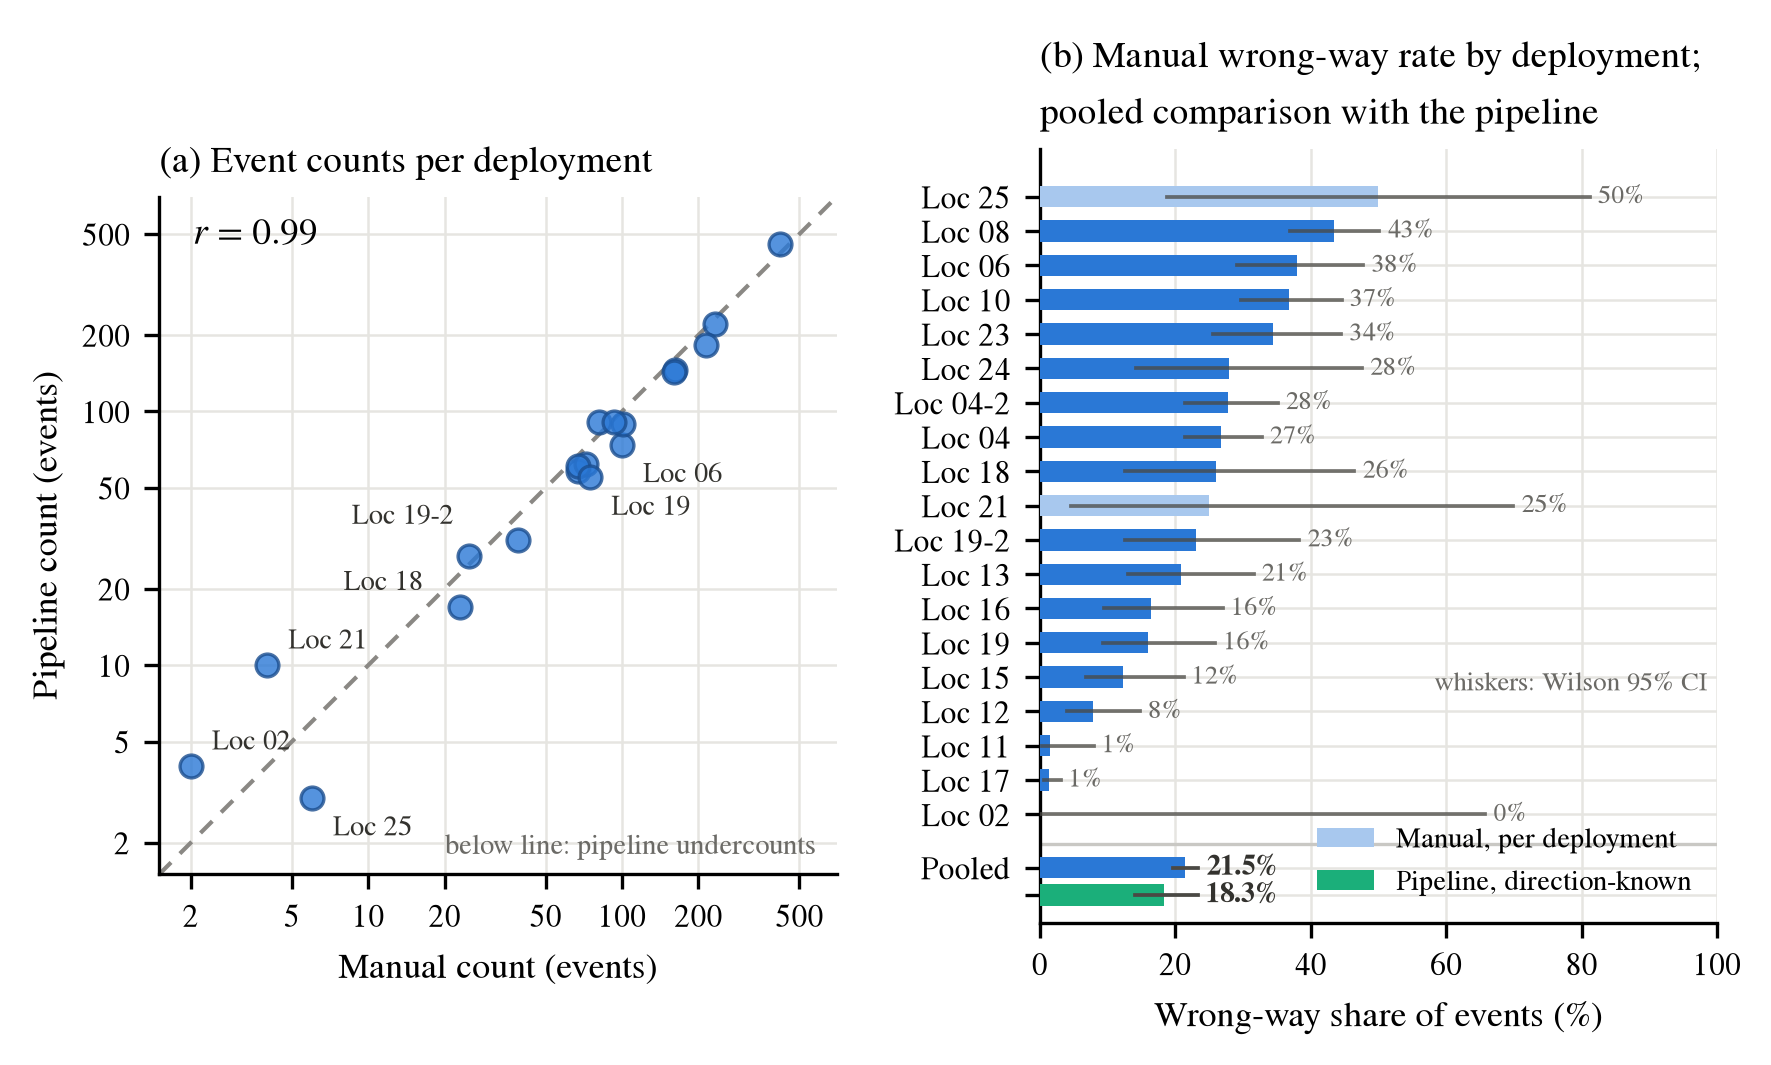
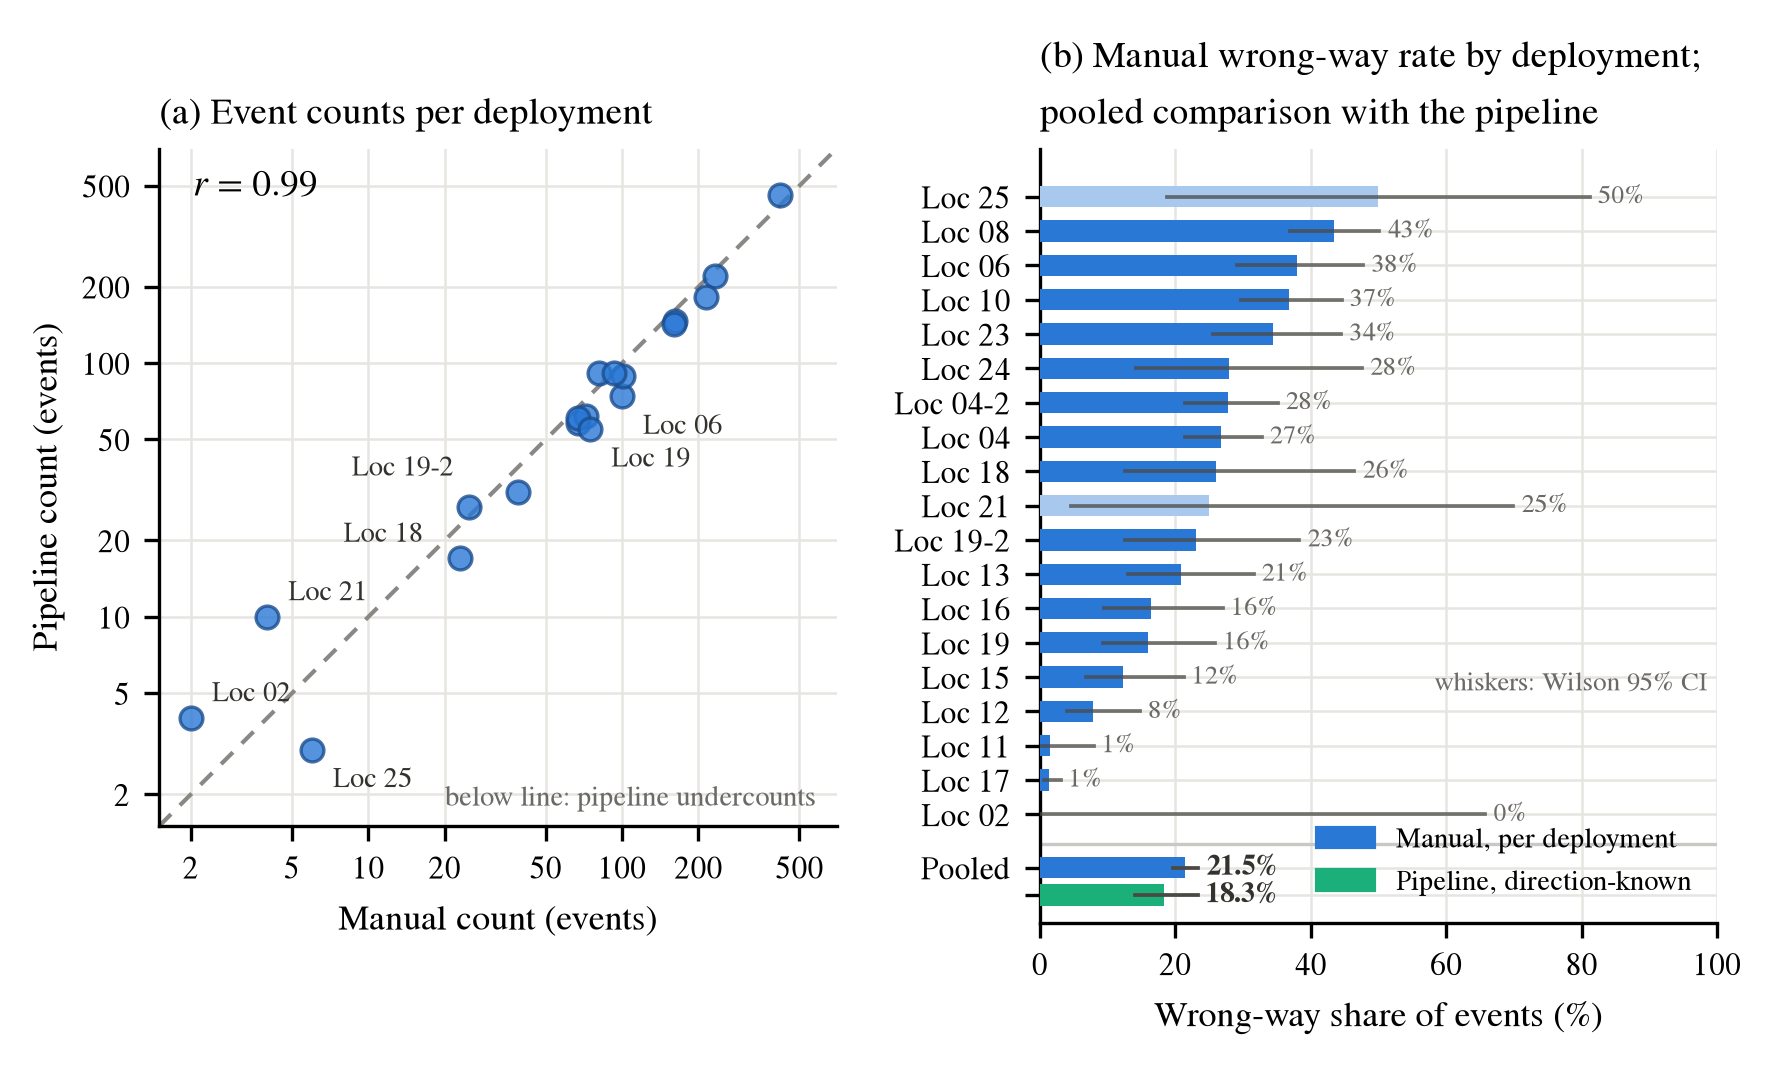
Add pinned robustness checks; fix figure legend swatch, panel alignment, label threshold
robustness_checks.py pins the computations reported in the paper: K-means
ARI and silhouettes (k=2..5), threshold-rule sensitivity (9 cutoff
combinations, zero changes), pipeline facility-share validation (17/19
type agreement; shares r=0.978, MAE 0.050 at n>=10 deployments), and
pairing sensitivity (rho=0.867 at n=14). Figure fixes: explicit legend
handles so the manual swatch is not drawn in the lightened small-n color,
panel (a) anchored to the top edge, and the annotation threshold aligned
with the caption (label deviations beyond -20/+20 percent).

diff --git a/paper/robustness_checks.py b/paper/robustness_checks.py
@@ -1,0 +1,102 @@
+#!/usr/bin/env python3
+"""Robustness checks reported in the paper (Stage 4 and Results).
+
+Pinned computation so every number in the text is reproducible:
+  1. K-means (k=3) vs threshold-rule agreement (ARI) on the manual usage
+     shares, plus silhouette scores for k = 2..5.
+  2. Sensitivity of the 0.6/0.2 threshold rule (dominance cutoff +-0.05,
+     gap cutoff +-0.05: all combinations).
+  3. Pipeline facility-share validation: per-deployment shares vs manual,
+     and type agreement when the classification rules run on the
+     pipeline's own shares.
+  4. Pairing sensitivity: Spearman rho with the second views
+     (Loc_04-2, Loc_19-2) dropped.
+
+Settings are fixed (sklearn KMeans, n_init=50, random_state=0, features =
+the three facility shares) because silhouette values move with the
+implementation; these are the settings behind the numbers in the text.
+"""
+import os
+
+import numpy as np
+import pandas as pd
+from scipy.stats import pearsonr, spearmanr
+from sklearn.cluster import KMeans
+from sklearn.metrics import adjusted_rand_score, silhouette_score
+
+HERE = os.path.dirname(os.path.abspath(__file__))
+MAN = os.path.join(HERE, "..", "data", "manual_counts_new.csv")
+PIPE = os.path.join(HERE, "..", "outputs_new", "all_locations_summary.csv")
+
+SMALL_N = {"02", "21", "25"}  # fewer than 10 manual events
+
+
+def rule_type(sw, bl, rd):
+    shares = sorted((("SW", sw), ("BL", bl), ("RD", rd)),
+                    key=lambda kv: -kv[1])
+    if shares[0][1] >= 0.6 and shares[0][1] - shares[1][1] >= 0.2:
+        return shares[0][0]
+    return "Mixed"
+
+
+def rule_type_custom(sw, bl, rd, dom, gap):
+    shares = sorted((("SW", sw), ("BL", bl), ("RD", rd)),
+                    key=lambda kv: -kv[1])
+    if shares[0][1] >= dom and shares[0][1] - shares[1][1] >= gap:
+        return shares[0][0]
+    return "Mixed"
+
+
+man = pd.read_csv(MAN, dtype={"loc": str}).set_index("loc")
+man["sw"] = (man.fwd_sw + man.ww_sw) / man.total
+man["bl"] = (man.fwd_bl + man.ww_bl) / man.total
+man["rd"] = (man.fwd_rd + man.ww_rd) / man.total
+man["type"] = [rule_type(r.sw, r.bl, r.rd) for r in man.itertuples()]
+
+# --- 1. K-means agreement and silhouettes -------------------------------
+X = man[["sw", "bl", "rd"]].values
+km3 = KMeans(n_clusters=3, n_init=50, random_state=0).fit(X)
+ari = adjusted_rand_score(man["type"], km3.labels_)
+print(f"K-means k=3 vs threshold rules: ARI = {ari:.2f}")
+for k in (2, 3, 4, 5):
+    km = KMeans(n_clusters=k, n_init=50, random_state=0).fit(X)
+    print(f"  silhouette k={k}: {silhouette_score(X, km.labels_):.3f}")
+
+# --- 2. threshold sensitivity -------------------------------------------
+base = man["type"]
+for dom in (0.55, 0.60, 0.65):
+    for gap in (0.15, 0.20, 0.25):
+        t = [rule_type_custom(r.sw, r.bl, r.rd, dom, gap)
+             for r in man.itertuples()]
+        changed = int((pd.Series(t, index=man.index) != base).sum())
+        print(f"  dom={dom:.2f} gap={gap:.2f}: {changed} assignments change")
+
+# --- 3. pipeline facility-share validation ------------------------------
+pipe = pd.read_csv(PIPE)
+pipe["loc"] = pipe.location.str.replace("loc_", "", regex=False)
+pipe = pipe.set_index("loc")
+pipe["sw"] = pipe.dom_sidewalk / pipe.riders
+pipe["bl"] = pipe.dom_bike_lane / pipe.riders
+pipe["rd"] = pipe.dom_roadway / pipe.riders
+pipe["type"] = [rule_type(r.sw, r.bl, r.rd) for r in pipe.itertuples()]
+both = man.join(pipe[["sw", "bl", "rd", "type"]], rsuffix="_p")
+agree = (both["type"] == both["type_p"]).sum()
+dis = both[both["type"] != both["type_p"]]
+print(f"type agreement (rules on pipeline shares): {agree}/19; "
+      f"disagreements: {list(dis.index)}")
+big = both[~both.index.isin(SMALL_N)]
+for label, sub in (("all 19", both), ("n>=10 (16)", big)):
+    mv = np.concatenate([sub.sw, sub.bl, sub.rd])
+    pv = np.concatenate([sub.sw_p, sub.bl_p, sub.rd_p])
+    r = pearsonr(mv, pv).statistic
+    mae = np.abs(mv - pv).mean()
+    print(f"  shares {label}: r = {r:.3f}, MAE = {mae:.3f}")
+
+# --- 4. pairing sensitivity ---------------------------------------------
+sub = man[~man.index.isin(SMALL_N)]
+rho_all = spearmanr(sub.sw, sub.ww_rate)
+sub14 = sub[~sub.index.isin({"04-2", "19-2"})]
+rho_14 = spearmanr(sub14.sw, sub14.ww_rate)
+print(f"Spearman sw vs ww: n={len(sub)} rho={rho_all.statistic:.3f} "
+      f"(p={rho_all.pvalue:.1e}); drop second views: n={len(sub14)} "
+      f"rho={rho_14.statistic:.3f} (p={rho_14.pvalue:.1e})")

diff --git a/paper/make_figs_v3.py b/paper/make_figs_v3.py
@@ -19,6 +19,7 @@ import matplotlib
 
 matplotlib.use("Agg")
 import matplotlib.pyplot as plt
+from matplotlib.patches import Patch
 
 plt.rcParams["font.family"] = "STIXGeneral"
 plt.rcParams["mathtext.fontset"] = "stix"
@@ -94,7 +95,7 @@ def fig_validation(rows, out):
                  "18": (-28, 4), "19": (5, -9), "19-2": (-40, 4)}
     for l, m, p in zip(locs, manual, pipe):
         ratio = p / m
-        if ratio < 0.8 or ratio > 1.25:
+        if ratio < 0.8 or ratio > 1.2:
             dx, dy = label_off.get(l, (5, 4))
             ax1.annotate(f"Loc {l}", (m, p), textcoords="offset points",
                          xytext=(dx, dy), fontsize=6.8, color=INK)
@@ -112,8 +113,7 @@ def fig_validation(rows, out):
     vals = [100 * r["ww_total"] / r["total"] for r in per]
     small = {"02", "21", "25"}
     cols = [BLUE if r["loc"] not in small else "#a8c8ee" for r in per]
-    ax2.barh(ys_b, vals, height=0.62, color=cols, zorder=3,
-             label="Manual, per deployment")
+    ax2.barh(ys_b, vals, height=0.62, color=cols, zorder=3)
     for y, r, v in zip(ys_b, per, vals):
         lo, hi = wilson_ci(r["ww_total"], r["total"])
         ax2.plot([lo * 100, hi * 100], [y, y], color="#4a4944", lw=0.9,
@@ -124,8 +124,7 @@ def fig_validation(rows, out):
     m_lo, m_hi = wilson_ci(418, 1943)
     p_lo, p_hi = wilson_ci(49, 268)
     ax2.barh(1.05, 21.5, height=0.62, color=BLUE, zorder=3)
-    ax2.barh(0.25, 18.3, height=0.62, color=GREEN, zorder=3,
-             label="Pipeline, direction-known")
+    ax2.barh(0.25, 18.3, height=0.62, color=GREEN, zorder=3)
     ax2.plot([m_lo * 100, m_hi * 100], [1.05, 1.05], color="#4a4944",
              lw=0.9, zorder=4)
     ax2.plot([p_lo * 100, p_hi * 100], [0.25, 0.25], color="#4a4944",
@@ -140,7 +139,9 @@ def fig_validation(rows, out):
     ax2.set_xlim(0, 100)
     ax2.set_ylim(-0.55, len(per) + 3.0)
     ax2.set_xlabel("Wrong-way share of events (%)", fontsize=8.5)
-    ax2.legend(fontsize=6.8, frameon=False, loc="lower right")
+    ax2.legend(handles=[Patch(color=BLUE, label="Manual, per deployment"),
+                        Patch(color=GREEN, label="Pipeline, direction-known")],
+               fontsize=6.8, frameon=False, loc="lower right")
     ax2.text(0.985, 0.30, "whiskers: Wilson 95% CI",
              transform=ax2.transAxes, fontsize=6.4, color=MUTED, ha="right")
     ax2.set_title("(b) Manual wrong-way rate by deployment;\npooled comparison with the pipeline",
@@ -152,6 +153,7 @@ def fig_validation(rows, out):
         ax.set_axisbelow(True)
         ax.grid(color="#e6e5e1", lw=0.6)
     ax1.set_aspect("equal")
+    ax1.set_anchor("N")
     fig.savefig(out, bbox_inches="tight")
     plt.close(fig)
 
